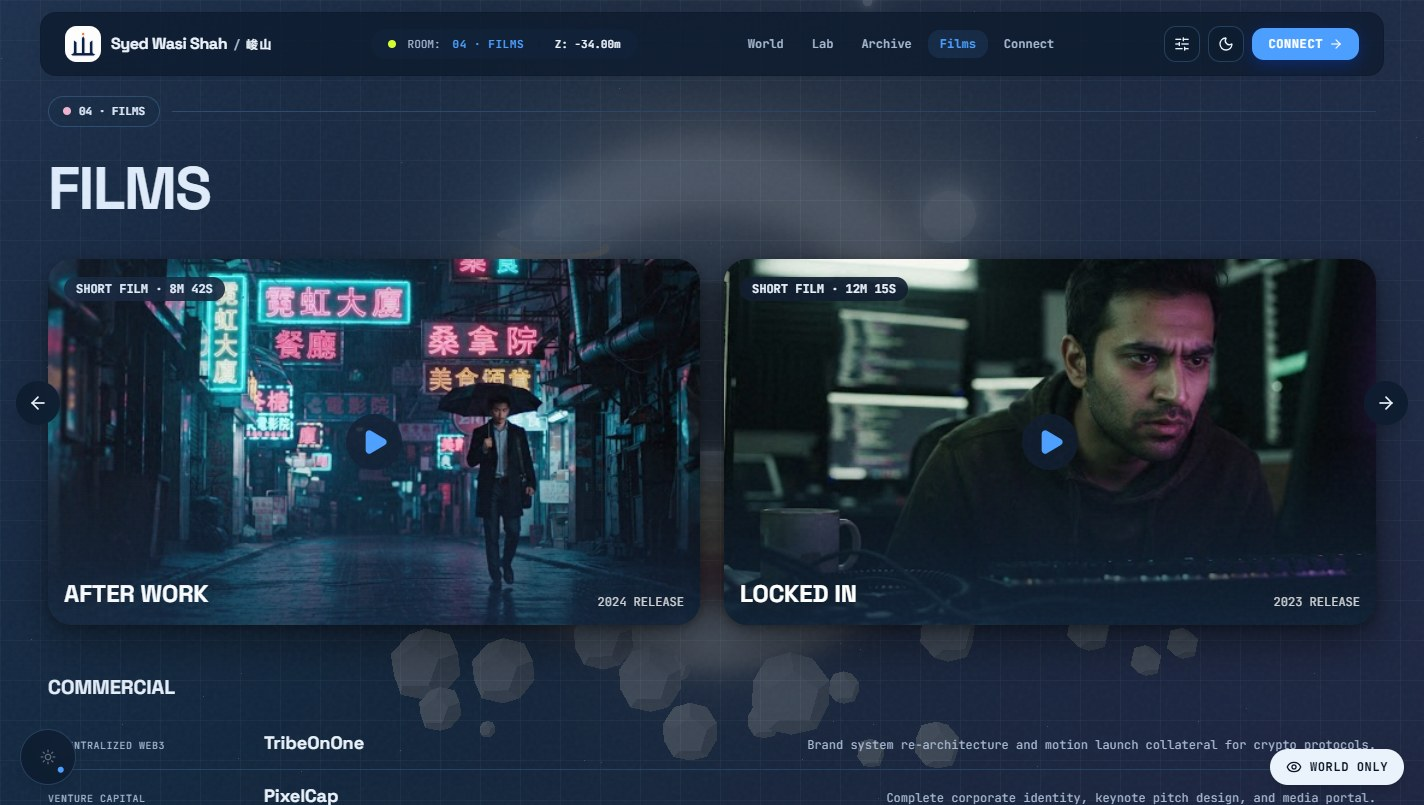
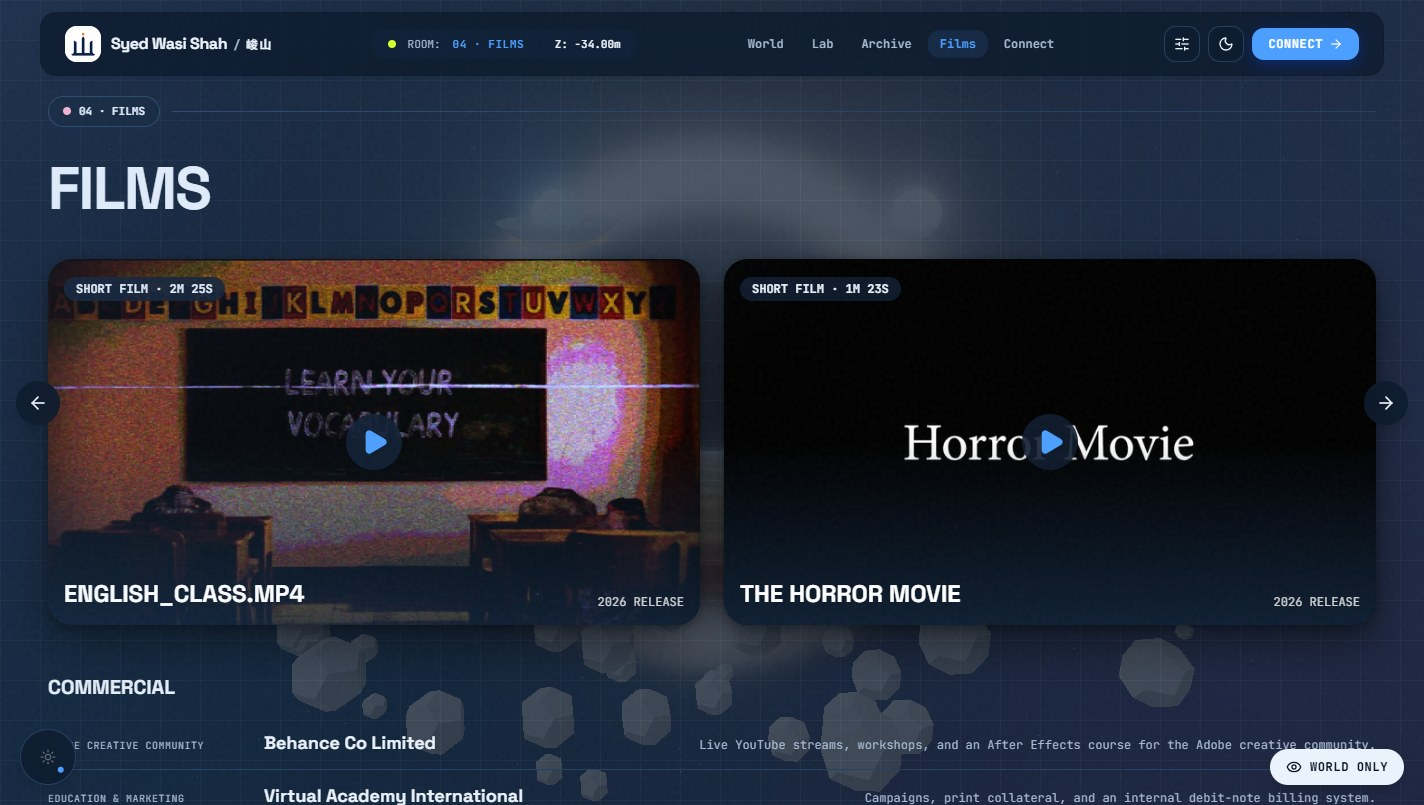
Docs: refresh Films screenshot (new films + real commercial clients); add photography screenshot

diff --git a/README.md b/README.md
@@ -64,7 +64,10 @@ Instead of one long page, the site is a **corridor through space**. Scrolling mo
 <img src="docs/project.jpg" alt="Project detail modal with gallery and diagrams" width="900">
 
 ### 04 · Films
-<img src="docs/films.jpg" alt="Films room — short films and commercial work" width="900">
+<img src="docs/films.jpg" alt="Films room — short films and the commercial client list" width="900">
+
+### 04 · Photography
+<img src="docs/films-photography.jpg" alt="Films room — daily and event photography, each with a before/after badge" width="900">
 
 ### 05 · Connect
 <img src="docs/connect.jpg" alt="Connect room — contact and socials" width="900">
